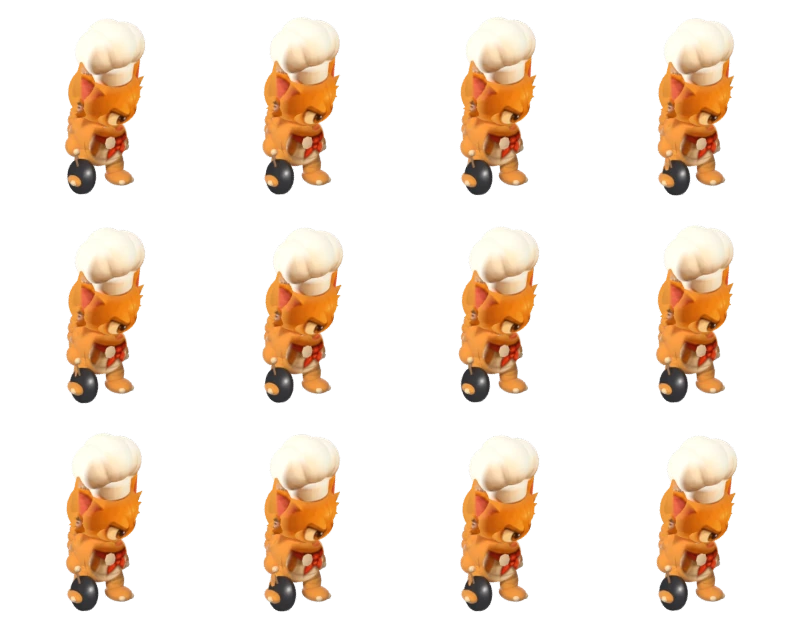
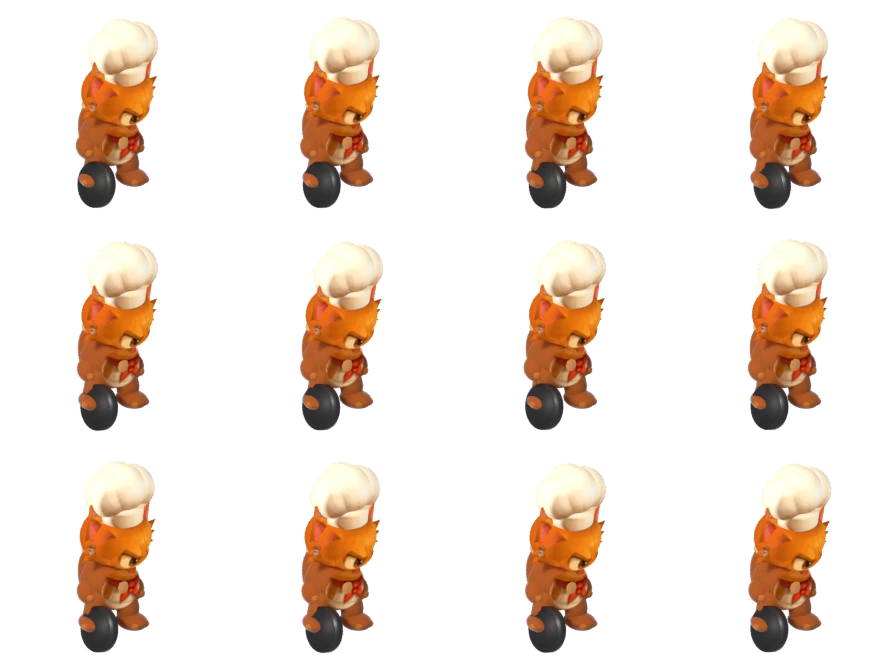
Chat chef 3D fini de dos et de côté, 5 angles dans le jeu, journal
Claude-Session: https://claude.ai/code/session_011iTQJ3ptn1M89syPvc6cfN

diff --git a/docs/memoire/JOURNAL.md b/docs/memoire/JOURNAL.md
@@ -13,6 +13,7 @@ Pour reprendre vite : lire d'abord [[REPRISE]] (`docs/memoire/REPRISE.md`).
 - **Ressemblance** : proportions, couleurs, toque, foulard, tablier, queue, poêle sont bons ; le visage reste plus simple que le dessin d'origine (pas identique). À resserrer.
 - **Pas fait** : les autres chefs, les combattants, les monstres, les 7 autres cartes ; les textures de sol réalistes (Poly Haven, ambientCG : leurs domaines de téléchargement `dl.polyhaven.org` et `acg-download.struffelproductions.com` ne sont pas autorisés dans l'environnement cloud) ; l'angle d'attaque (il tourne le dos par moments).
 - **Ressemblance du chat (suite, 17/11 soir)** : la tête (visage, yeux, sourcils, oreilles, toque) et le plastron (foulard rouge, tablier) du chat 3D sont maintenant la **peinture d'origine projetée de face** sur des volumes 3D accrochés aux os (`painted_head()` dans `chef.py`, images recadrées dans `tools/blender/_work/`, produites depuis `public/assets/sprites3d/moustachu.png`). De face, on retrouve le dessin à l'identique ; sur les côtés et le dessus, la matière passe à une couleur unie (la peinture s'étire sinon). Le profil et le dos sont donc plus simples que le dessin. Pour un autre chef : ajouter une entrée dans `SPECS` avec les zones de la peinture (`paint`), recadrer la tête et le plastron, relancer `chef.py ... jeu` puis `pack_anim.py`.
+- **Chat chef : le dos et les côtés, corrigés (17/11 nuit)** : Rudy trouvait le chat « mal fini » de dos et pas identique. Corrections dans `chef.py` : couleurs mesurées sur la peinture (joues, membres, ventre, queue, toque), queue en tube lisse à bout crème (courbe de Bézier), bras et jambes fondus en une surface lisse (remaillage `REMESH` voxel dans `capsule()`), oreilles aplaties, poêle plus grande avec rebord, couleur unie éclairée sur les côtés, le dessus et le dos de la tête/toque (elle ne dépend plus de l'émission). Mode `angles` pour comparer les 5 angles avec l'original. Piège : un remplacement de texte trop large dans `chef.py` avait effacé la tête peinte ; toujours remplacer un bloc précis et relancer un rendu de contrôle.
 - Pas fait : la poêle (tenue de façon peu naturelle), les autres personnages, les cartes restantes ; la caméra des personnages est à 18 degrés (presque de face, comme la peinture).
 - **Licences** : les modèles Quaternius sont libres pour un jeu commercial sans citer l'auteur ; on ne peut pas redistribuer les modèles eux-mêmes. Ils ne sont donc PAS dans le dépôt (seuls les rendus le sont). Dossier lu par défaut : `/home/user/walterpalladino/godot-quaternius-ultimate-stylized-nature/...` (dépôt GitHub public cloné avec `add_repo`) et `/home/user/j-ponzo/gltf-universal-animation-library`.
 - **Obsidian** : Claude ne peut pas lire le disque du PC de Rudy depuis le cloud (aucun dossier partagé par Remote Control). Le journal du projet voyage par GitHub (`git pull` sur le PC).
